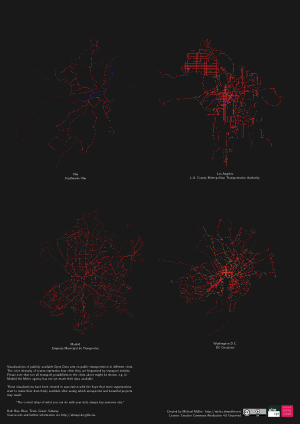
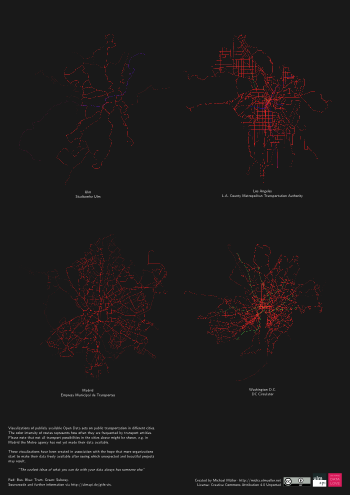
updated visualizations and posters. added large versions of gallery images.

diff --git a/README.md b/README.md
@@ -38,42 +38,42 @@ available, though it does (not yet?) include shapes.
 
 ### Madrid
 
-[![Madrid GTFS Heatmap](https://github.com/cmichi/gtfs-visualizations/raw/master/gallery/small/madrid.png)](https://github.com/cmichi/gtfs-visualizations/raw/master/gallery/small/madrid.png)
+[![Madrid GTFS Heatmap](https://github.com/cmichi/gtfs-visualizations/raw/master/gallery/small/madrid.png)](https://github.com/cmichi/gtfs-visualizations/raw/master/gallery/large/madrid.png)
 
 Rendering based on the [official feed](http://www.gtfs-data-exchange.com/agency/madrid/) 
 by the Empresa Municipal de Transportes. (March 12, 2014)
 
 ### San Diego
 
-[![San Diego GTFS Heatmap](https://github.com/cmichi/gtfs-visualizations/raw/master/gallery/small/san-diego.png)](https://github.com/cmichi/gtfs-visualizations/raw/master/gallery/small/san-diego.png)
+[![San Diego GTFS Heatmap](https://github.com/cmichi/gtfs-visualizations/raw/master/gallery/small/san-diego.png)](https://github.com/cmichi/gtfs-visualizations/raw/master/gallery/large/san-diego.png)
 
 Rendering based on the [official feed](http://www.sdmts.com/Planning/Developers.asp) 
 by the Metropolitan Transit System (MTS). (March 12, 2014)
 
 ### Los-Angeles
 
-[![Los Angeles GTFS Heatmap](https://github.com/cmichi/gtfs-visualizations/raw/master/gallery/small/los-angeles.png)](https://github.com/cmichi/gtfs-visualizations/raw/master/gallery/small/los-angeles.png)
+[![Los Angeles GTFS Heatmap](https://github.com/cmichi/gtfs-visualizations/raw/master/gallery/small/los-angeles.png)](https://github.com/cmichi/gtfs-visualizations/raw/master/gallery/large/los-angeles.png)
 
 Rendering based on the [official feed](http://www.gtfs-data-exchange.com/agency/la-metro/) 
 by the Los Angeles County Metropolitan Transportation Authority. (March 14, 2014)
 
 ### San Francisco
 
-[![San Francisco GTFS Heatmap](https://github.com/cmichi/gtfs-visualizations/raw/master/gallery/small/san-francisco.png)](https://github.com/cmichi/gtfs-visualizations/raw/master/gallery/small/san-francisco.png)
+[![San Francisco GTFS Heatmap](https://github.com/cmichi/gtfs-visualizations/raw/master/gallery/small/san-francisco.png)](https://github.com/cmichi/gtfs-visualizations/raw/master/gallery/large/san-francisco.png)
 
 Rendering based on the [official feed](http://www.gtfs-data-exchange.com/agency/san-francisco-municipal-transportation-agency/) 
 by the San Francisco Municipal Transportation Agency. (March 12, 2014)
 
 ### Washington DC
 
-[![Washington GTFS Heatmap](https://github.com/cmichi/gtfs-visualizations/raw/master/gallery/small/washington-dc.png)](https://github.com/cmichi/gtfs-visualizations/raw/master/gallery/small/washington-dc.png)
+[![Washington GTFS Heatmap](https://github.com/cmichi/gtfs-visualizations/raw/master/gallery/small/washington-dc.png)](https://github.com/cmichi/gtfs-visualizations/raw/master/gallery/large/washington-dc.png)
 
 Rendering based on the [official feed](http://www.gtfs-data-exchange.com/agency/dc-circulator/) 
 by DC Circulator. (March 13, 2014)
 
 ### Miami
 
-[![Miami GTFS Heatmap](https://github.com/cmichi/gtfs-visualizations/raw/master/gallery/small/miami.png)](https://github.com/cmichi/gtfs-visualizations/raw/master/gallery/small/miami.png)
+[![Miami GTFS Heatmap](https://github.com/cmichi/gtfs-visualizations/raw/master/gallery/small/miami.png)](https://github.com/cmichi/gtfs-visualizations/raw/master/gallery/large/miami.png)
 
 Rendering based on the [official feed](http://www.gtfs-data-exchange.com/agency/miami-dade-transit/) 
 by the Miami Dade Transit. (March 13, 2014)
